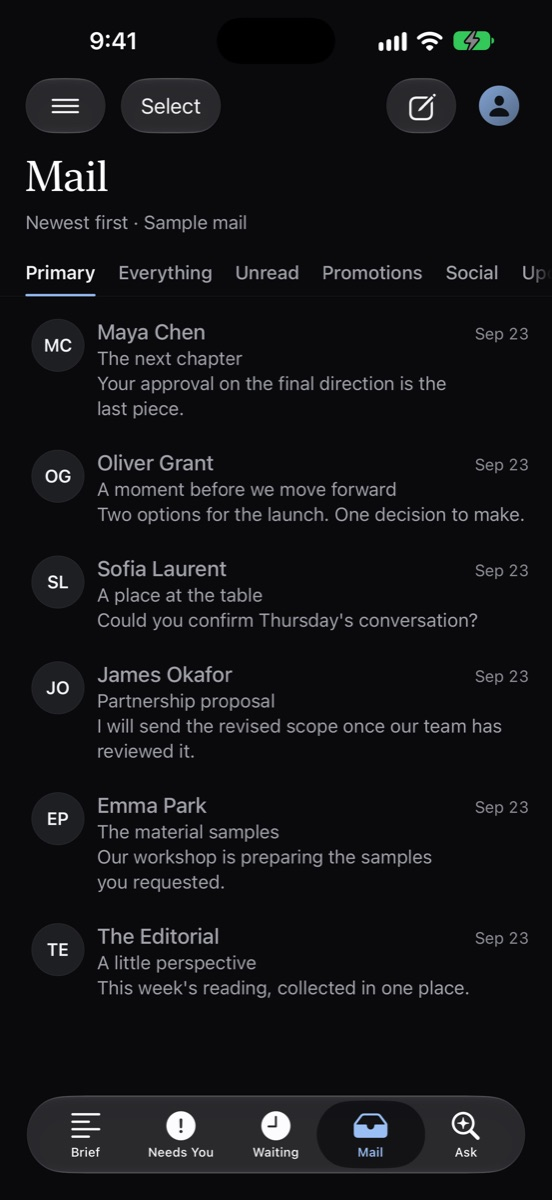
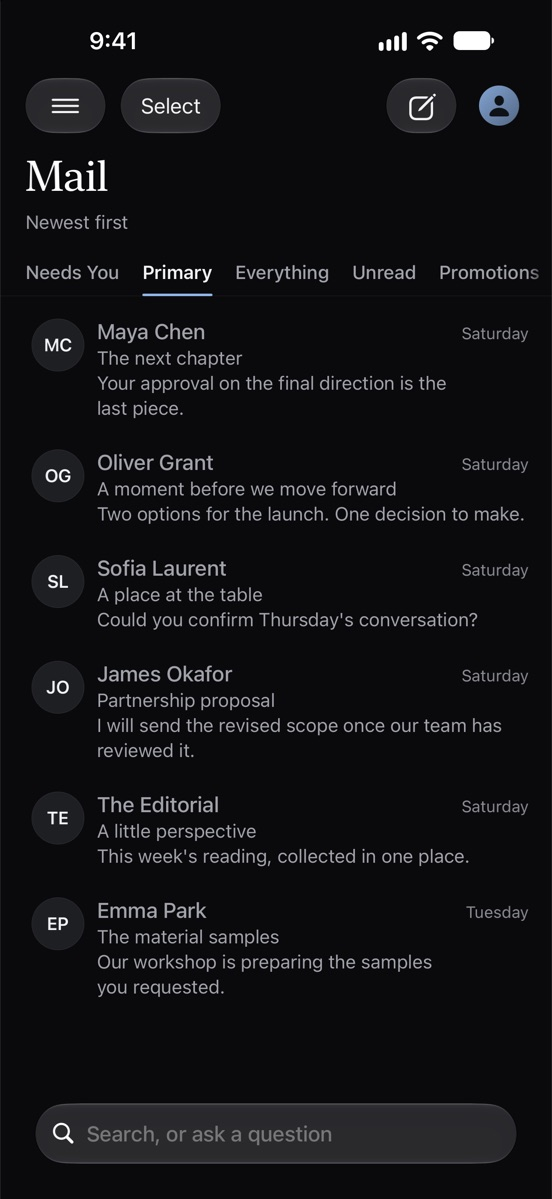
Corres: one home on Needs You, real iPhone screenshots
- New screenshots from the current build (Needs You and Primary), shown
  in a drawn iPhone with its titanium band, side buttons and Dynamic
  Island instead of a plain rounded box. The Brief screenshot is gone
  with the Brief screen.
- Copy follows Build 16: Corres opens on Needs You, questions are asked
  in Search, changes made offline wait and go through, and your choices
  sync between your devices through iCloud.
- Privacy policy covers iCloud sync and offline changes (effective
  October 19, 2026); terms and support list what Pro includes now.
- Now page: sixteen builds in.

diff --git a/public/corres/index.html b/public/corres/index.html
@@ -7,7 +7,7 @@
 <meta name="description" content="Corres is an email app for iPhone that reads and sorts your Gmail, Outlook and iCloud Mail on the device, brings forward what needs you, and never sends your mail to a server or an AI company.">
 <meta property="og:title" content="Corres · Email, considered.">
 <meta property="og:description" content="What needs you, first. Gmail, Outlook and iCloud in one calm inbox, read and sorted on your iPhone.">
-<meta property="og:image" content="https://anwarcreativestudio.com/corres/img/brief-dark.jpg">
+<meta property="og:image" content="https://anwarcreativestudio.com/corres/img/needs-you-dark.jpg">
 <meta name="theme-color" content="#0a0a0c" media="(prefers-color-scheme: dark)">
 <meta name="theme-color" content="#f6f3ec" media="(prefers-color-scheme: light)">
 <link rel="icon" href="../favicon.svg">
@@ -76,11 +76,31 @@
   .cta { display: flex; flex-wrap: wrap; gap: 12px; align-items: center; }
   .cta-note { margin-top: 16px; font-size: 13.5px; color: var(--ter); }
 
-  /* The phone: a real screen in a drawn frame. */
-  .phone { position: relative; width: min(340px, 78vw); aspect-ratio: 552 / 1200; margin-inline: auto; border-radius: 15.5% / 7.2%;
-           padding: 3.2%; background: linear-gradient(145deg, #3a3b40, #121214 46%, #2a2b2f); box-shadow:
-           0 0 0 1px rgba(255,255,255,.06), 0 60px 120px -40px rgba(0,0,0,.65), 0 30px 60px -30px var(--glow); }
-  .phone img { width: 100%; height: 100%; object-fit: cover; border-radius: 13% / 6%; }
+  /* The phone: a real screen in an iPhone 17 Pro Max, drawn to its
+     proportions: titanium band, black border, side buttons. */
+  .phone { position: relative; width: min(340px, 78vw); aspect-ratio: 78 / 163.4; margin-inline: auto;
+           border-radius: 17.5% / 8.4%; padding: 1.3%;
+           background:
+             linear-gradient(90deg, rgba(255,255,255,.28) 0, rgba(255,255,255,0) 1.6%, rgba(255,255,255,0) 98.4%, rgba(255,255,255,.22) 100%),
+             linear-gradient(180deg, rgba(255,255,255,.18) 0, rgba(255,255,255,0) 1.2%, rgba(255,255,255,0) 98.8%, rgba(255,255,255,.12) 100%),
+             linear-gradient(145deg, #5b5d63 0%, #2e3034 30%, #1d1e21 55%, #3b3d42 100%);
+           box-shadow: inset 0 0 0 1px rgba(0,0,0,.55), inset 0 0 0 2px rgba(255,255,255,.07),
+             0 0 0 .5px rgba(0,0,0,.6), 0 60px 120px -40px rgba(0,0,0,.7), 0 30px 60px -30px var(--glow); }
+  .phone .glass { position: relative; height: 100%; border-radius: 16% / 7.6%; padding: 2.4% 2.6%; background: #020203;
+                  box-shadow: inset 0 0 0 1px rgba(255,255,255,.04); overflow: hidden; }
+  .phone img { display: block; width: 100%; height: 100%; object-fit: cover; border-radius: 13.4% / 6.2%; }
+  /* The Dynamic Island: screenshots leave it out; the phone has it. */
+  .phone .glass::before { content: ""; position: absolute; z-index: 1; left: 50%; top: 3.3%; width: 27.5%; height: 3.5%;
+                          transform: translateX(-50%); border-radius: 999px; background: #000; }
+  /* A faint reflection across the glass. */
+  .phone .glass::after { content: ""; position: absolute; inset: 0; border-radius: inherit; pointer-events: none;
+                         background: linear-gradient(115deg, rgba(255,255,255,.07) 0%, rgba(255,255,255,0) 38%); }
+  /* Action button and volume on the left; side button and Camera Control on the right. */
+  .phone::before, .phone::after { content: ""; position: absolute; width: 1.1%; border-radius: 2px; }
+  .phone::before { left: -1%; top: 17%; height: 26%;
+    background: linear-gradient(180deg, #45474c 0 13%, transparent 13% 28%, #45474c 28% 57%, transparent 57% 64%, #45474c 64% 93%, transparent 93%); }
+  .phone::after { right: -1%; top: 26%; height: 42%;
+    background: linear-gradient(180deg, #45474c 0 26%, transparent 26% 74%, #2a2b2f 74% 92%, transparent 92%); }
   .hero .phone { transform: rotate(-2deg); }
   .float { position: absolute; z-index: 2; display: flex; align-items: center; gap: 10px; padding: 12px 16px; border-radius: 16px;
            background: color-mix(in srgb, var(--surface) 86%, transparent); border: 1px solid var(--line-2);
@@ -244,7 +264,7 @@
       <div>
         <p class="eyebrow">Email for iPhone · Gmail, Outlook and iCloud</p>
         <h1>Email,<br><em>considered.</em></h1>
-        <p class="lede">Open Corres and it has already read the morning for you: <strong>what needs you rises to the top</strong>, with the reason why, and everything else waits quietly until you&rsquo;re ready. All on your iPhone.</p>
+        <p class="lede">Corres opens on <strong>what needs you</strong>: every email that asks something of you, with the reason why. The rest of your mail is one swipe along, quiet until you&rsquo;re ready. All read and sorted on your iPhone.</p>
         <div class="cta">
           <a class="btn primary" href="mailto:support@corres.app?subject=Corres%20early%20access">Get early access</a>
           <a class="btn ghost" href="#privacy">How it stays private</a>
@@ -256,7 +276,7 @@
           <span class="ico"><svg width="16" height="16" viewBox="0 0 24 24" fill="none" stroke="currentColor" stroke-width="2" stroke-linecap="round"><circle cx="12" cy="12" r="9"/><path d="M12 7v6M12 16.5v.5"/></svg></span>
           <span><b>Needs you</b><small>Maya asked you to approve the direction</small></span>
         </div>
-        <div class="phone"><img src="img/brief-dark.jpg" width="552" height="1200" alt="The Corres Brief: three conversations need you, with who asked what, and the replies you're waiting on."></div>
+        <div class="phone"><div class="glass"><img src="img/needs-you-dark.jpg" width="552" height="1199" alt="Corres opening on Needs You: three conversations that need you, each with the reason, and the replies you're waiting on."></div></div>
         <div class="float f2" aria-hidden="true">
           <span class="ico"><svg width="16" height="16" viewBox="0 0 24 24" fill="none" stroke="currentColor" stroke-width="2" stroke-linecap="round" stroke-linejoin="round"><rect x="4" y="11" width="16" height="10" rx="2"/><path d="M8 11V7a4 4 0 0 1 8 0v4"/></svg></span>
           <span><b>Read on this iPhone</b><small>Never on a server</small></span>
@@ -284,9 +304,9 @@
 
       <div class="story reveal">
         <div class="copy">
-          <p class="eyebrow">Brief</p>
-          <h3>Your morning, in a paragraph.</h3>
-          <p>Who&rsquo;s waiting on you, what they asked, what&rsquo;s due, and who still owes you a reply. Written fresh each time you open Corres, from your own mail.</p>
+          <p class="eyebrow">Needs You</p>
+          <h3>Opens on what needs you.</h3>
+          <p>The emails that ask something of you come first, each with the reason it&rsquo;s there. Who still owes you a reply sits one row above. Everything else waits in Primary until you get to it.</p>
           <ul class="ticks">
             <li><svg viewBox="0 0 24 24"><path d="M20 6 9 17l-5-5"/></svg>Needs You: only mail that asks something of you, with the reason</li>
             <li><svg viewBox="0 0 24 24"><path d="M20 6 9 17l-5-5"/></svg>Waiting: replies you&rsquo;re owed, with a nudge when they&rsquo;re late</li>
@@ -310,17 +330,17 @@
           <ul class="ticks">
             <li><svg viewBox="0 0 24 24"><path d="M20 6 9 17l-5-5"/></svg>A security code or an appointment never hides in Updates</li>
             <li><svg viewBox="0 0 24 24"><path d="M20 6 9 17l-5-5"/></svg>Spam dressed up as a question stays out of the way</li>
-            <li><svg viewBox="0 0 24 24"><path d="M20 6 9 17l-5-5"/></svg>Swipes, tabs and the toolbar under an email are yours to set</li>
+            <li><svg viewBox="0 0 24 24"><path d="M20 6 9 17l-5-5"/></svg>Swipes, lists and the toolbar under an email are yours to set</li>
           </ul>
         </div>
-        <div class="phone" style="width:min(300px,72vw)"><img src="img/mail-dark.jpg" width="552" height="1200" loading="lazy" alt="The Corres Mail list, sorted into Primary, Promotions, Social and Updates."></div>
+        <div class="phone" style="width:min(300px,72vw)"><div class="glass"><img src="img/mail-dark.jpg" width="552" height="1200" loading="lazy" alt="The Corres Mail list, sorted into Primary, Promotions, Social and Updates."></div></div>
       </div>
 
       <div class="story reveal">
         <div class="copy">
           <p class="eyebrow">Notifications</p>
           <h3>The moment mail lands, and only when it should.</h3>
-          <p>New Outlook mail notifies in seconds, even with Corres closed, with who it&rsquo;s from and what it says. You choose, per account, whether that&rsquo;s everything, people and time-sensitive mail, or only what needs you.</p>
+          <p>New Outlook and iCloud mail notifies in seconds, even with Corres closed, with who it&rsquo;s from and what it says. You choose, per account, whether that&rsquo;s everything, people and time-sensitive mail, or only what needs you.</p>
           <ul class="ticks">
             <li><svg viewBox="0 0 24 24"><path d="M20 6 9 17l-5-5"/></svg>Archive, mark read or reply right from the notification</li>
             <li><svg viewBox="0 0 24 24"><path d="M20 6 9 17l-5-5"/></svg>Newsletters arrive silently; VIPs always come through</li>
@@ -368,11 +388,11 @@
         <h2>Complete, down to the details.</h2>
       </div>
       <div class="grid reveal">
-        <div class="cell wide"><svg viewBox="0 0 24 24"><path d="M13 2 4 14h7l-1 8 9-12h-7z"/></svg><h4>Built on Postwright</h4><p>Corres runs on its own mail engine. Archive and delete happen the moment you swipe, and what you do on the web or another device shows up here.</p></div>
+        <div class="cell wide"><svg viewBox="0 0 24 24"><path d="M13 2 4 14h7l-1 8 9-12h-7z"/></svg><h4>Built on Postwright</h4><p>Corres runs on its own mail engine. Archive and delete happen the moment you swipe, even with no signal, and go through when you&rsquo;re back online. What you do on the web or another device shows up here.</p></div>
         <div class="cell"><svg viewBox="0 0 24 24"><path d="M12 20h9"/><path d="M16.5 3.5a2.1 2.1 0 0 1 3 3L7 19l-4 1 1-4z"/></svg><h4>Writing, finished</h4><p>Drafts that wait for you, bold, lists and links, sending from your other addresses, and a check for a forgotten attachment.</p></div>
         <div class="cell"><svg viewBox="0 0 24 24"><circle cx="12" cy="12" r="9"/><path d="M12 7v5l3 2"/></svg><h4>Send Later &amp; follow-ups</h4><p>Schedule an email, and get a reminder if nobody replies. Undo Send for when you change your mind.</p></div>
         <div class="cell"><svg viewBox="0 0 24 24"><path d="M21 12a9 9 0 1 1-3.2-6.9"/><path d="M21 4v5h-5"/></svg><h4>Summaries &amp; replies</h4><p>Long threads summarized and checked against the email itself, and replies drafted in your voice, by Apple Intelligence on the iPhone.</p></div>
-        <div class="cell"><svg viewBox="0 0 24 24"><circle cx="11" cy="11" r="7"/><path d="m20 20-3.5-3.5"/></svg><h4>Ask your mail</h4><p>&ldquo;When is my flight?&rdquo; Answered from your own email, with the messages it came from.</p></div>
+        <div class="cell"><svg viewBox="0 0 24 24"><circle cx="11" cy="11" r="7"/><path d="m20 20-3.5-3.5"/></svg><h4>Search that answers</h4><p>Search every account at once, with filters like from: and has:attachment. Or ask, &ldquo;When is my flight?&rdquo;, and get the answer from your own email, with the messages it came from.</p></div>
         <div class="cell"><svg viewBox="0 0 24 24"><rect x="3" y="4" width="18" height="17" rx="2"/><path d="M3 9h18M8 2v4M16 2v4"/></svg><h4>Invitations &amp; Out of Office</h4><p>Accept, Maybe or Decline right in the email, and turn your automatic reply on from your phone.</p></div>
         <div class="cell"><svg viewBox="0 0 24 24"><path d="M4 12v7a1 1 0 0 0 1 1h14a1 1 0 0 0 1-1v-7"/><path d="M12 15V3M7 8l5-5 5 5"/></svg><h4>Share to Corres</h4><p>Share a page or photos from any app and write the email right in the Share sheet.</p></div>
         <div class="cell"><svg viewBox="0 0 24 24"><path d="M3 6h18M3 12h18M3 18h12"/></svg><h4>Unsubscribe in a tap</h4><p>Leave a mailing list the way the sender intended, without visiting their site.</p></div>
@@ -388,7 +408,7 @@
       <p class="promise reveal">Your email is read on your iPhone. <em>Not on our servers, and never by an AI company.</em></p>
       <div class="three reveal">
         <div><h4>Stored on your device</h4><p>Mail comes straight from Google, Microsoft or Apple to your iPhone and stays there, protected by iOS. Corres&rsquo;s servers never receive it.</p></div>
-        <div><h4>Sorted on your device</h4><p>Needs You, summaries, suggested replies and Ask all run on the iPhone. Nothing is sent to an AI service or used to train one.</p></div>
+        <div><h4>Sorted on your device</h4><p>Needs You, summaries, suggested replies and answers in Search all run on the iPhone. Nothing is sent to an AI service or used to train one.</p></div>
         <div><h4>Nothing to sell</h4><p>No ads, no analytics, no tracking SDKs, no read receipts. Corres is paid for by the people who use it.</p></div>
       </div>
       <p class="fine reveal">Read the full <a href="privacy/">privacy policy</a>. Corres&rsquo;s use and transfer of information received from Google APIs adheres to the <a href="https://developers.google.com/terms/api-services-user-data-policy">Google API Services User Data Policy</a>, including the Limited Use requirements.</p>
@@ -418,8 +438,8 @@
           <div class="price">$20 <small>a month · or $200 a year</small></div>
           <p class="sub">Try it free first</p>
           <ul class="ticks">
-            <li><svg viewBox="0 0 24 24"><path d="M20 6 9 17l-5-5"/></svg>Brief, Needs You and Waiting</li>
-            <li><svg viewBox="0 0 24 24"><path d="M20 6 9 17l-5-5"/></svg>Summaries, replies in your voice, and Ask</li>
+            <li><svg viewBox="0 0 24 24"><path d="M20 6 9 17l-5-5"/></svg>Needs You and Waiting, with the reason for each</li>
+            <li><svg viewBox="0 0 24 24"><path d="M20 6 9 17l-5-5"/></svg>Summaries, replies in your voice, and answers from your mail</li>
             <li><svg viewBox="0 0 24 24"><path d="M20 6 9 17l-5-5"/></svg>Everything in Corres, free</li>
           </ul>
         </div>
@@ -434,8 +454,10 @@
         <details><summary>Which email accounts work with Corres?</summary><p>Gmail and Google Workspace, Outlook.com, Hotmail and Live, work or school Microsoft 365, and iCloud Mail. Add as many as you like; they share one inbox. iCloud asks for an app-specific password instead of your Apple Account password, and Corres walks you through making one in about a minute.</p></details>
         <details><summary>What is Postwright?</summary><p>Postwright is the mail engine we built for Corres. It talks to Gmail, Outlook and iCloud Mail each in its own way, on your iPhone, so your actions are instant, Undo always works, and every account stays in step with the web. It&rsquo;s why Corres doesn&rsquo;t need a server of its own to hold your mail.</p></details>
         <details><summary>Does Corres read my email on its servers?</summary><p>No. Your mail is downloaded from Google, Microsoft or Apple directly to your iPhone and processed there. An optional notification relay only learns that your mailbox changed, never what&rsquo;s in it. The <a href="privacy/" style="color:var(--accent)">privacy policy</a> has the details.</p></details>
-        <details><summary>Do I need Apple Intelligence?</summary><p>No. Sorting, Needs You, Waiting and the Brief work on every supported iPhone. Summaries and drafted replies use Apple Intelligence where your iPhone has it.</p></details>
+        <details><summary>Do I need Apple Intelligence?</summary><p>No. Sorting, Needs You and Waiting work on every supported iPhone. Summaries and drafted replies use Apple Intelligence where your iPhone has it.</p></details>
         <details><summary>Is there an iPad version?</summary><p>Yes, Corres runs on iPhone and iPad, with a three-column layout on iPad.</p></details>
+        <details><summary>Does it work without a signal?</summary><p>Yes. Your mail is on your iPhone, so it reads offline, and anything you archive, delete, flag or mark read goes through as soon as you&rsquo;re back online.</p></details>
+        <details><summary>Is there a Mac app?</summary><p>It&rsquo;s in the works: a native Mac app, built for the Mac rather than carried over from iPhone, on the same engine and with what you&rsquo;ve set in Corres following you there through iCloud.</p></details>
         <details><summary>How do I get it?</summary><p>Corres is in beta on TestFlight. <a href="mailto:support@corres.app?subject=Corres%20early%20access" style="color:var(--accent)">Ask for early access</a>, and it&rsquo;s coming to the App Store.</p></details>
       </div>
     </div>

diff --git a/public/corres/privacy/index.html b/public/corres/privacy/index.html
@@ -32,7 +32,7 @@
   <p class="eyebrow">Corres · Privacy Policy</p>
   <h1>Your mail stays yours.</h1>
   <p class="lede">Corres reads and sorts your email on your iPhone. It doesn't sell your data, show ads, or send your mail to an AI company.</p>
-  <p>Effective October 18, 2026. Corres is made by Anwar Creative Studio (“we”).</p>
+  <p>Effective October 19, 2026. Corres is made by Anwar Creative Studio (“we”).</p>
 
   <h2>What Corres accesses</h2>
   <p>When you connect a Gmail account, you sign in with Google directly; Corres never sees your password. Google gives Corres permission to read, send and organize (archive, label, mark read, move to Trash) your Gmail, which is what an email app needs to work. If you open Out of Office in Settings, Corres asks Google for one more permission, to change your Gmail settings, so it can turn your vacation reply on and off; it's asked for only then, never at sign-in. You can revoke any of this anytime in your Google Account settings or by removing the account in Corres.</p>
@@ -42,12 +42,14 @@
 
   <h2>Where your mail is processed</h2>
   <ul>
-    <li><strong>On your device.</strong> Your messages are downloaded from Google, Microsoft or Apple to your iPhone or iPad and stored there, protected by iOS. Sorting, summaries, suggested replies, rewrites, dictation and Ask your mail all run on your device using Apple Intelligence and Apple's on-device speech recognition.</li>
+    <li><strong>On your device.</strong> Your messages are downloaded from Google, Microsoft or Apple to your iPhone or iPad and stored there, protected by iOS. Sorting, summaries, suggested replies, rewrites, dictation and answers to questions in Search all run on your device using Apple Intelligence and Apple's on-device speech recognition.</li>
     <li><strong>Never on our servers, never with AI companies.</strong> The contents of your email are not sent to Anwar Creative Studio or to any AI provider.</li>
     <li><strong>Your sign-in permission</strong> (or, for iCloud, your app-specific password) is kept in your device's Keychain, shared only with Corres's own Share extension so you can write an email from the Share sheet.</li>
     <li><strong>New-mail notifications are written on your device.</strong> When a notification arrives, Corres's notification extension fetches that one email from Google or Microsoft with your own sign-in and shows its sender, subject and opening words. Nothing about the email passes through our servers.</li>
     <li><strong>Your account settings</strong> (each account's name, color, signatures and notification choices) are kept on your device.</li>
     <li><strong>What Corres learns from you</strong> (where you move a sender's mail, what you mark as needing no action, your habits) is kept on your device, and you can see and forget any of it in Settings.</li>
+    <li><strong>Your Corres choices on your other devices.</strong> So your iPhone, iPad and Mac agree, Corres keeps a small record of what you decide in it in your own private iCloud storage, which Apple holds for your Apple Account: conversations you moved, snoozed or pinned (by their identifiers, not their contents), senders you allowed or blocked, your VIPs, what Corres has learned, your signatures and your settings. No email content is stored there, and we can't read it. Signing out of iCloud on a device stops it.</li>
+    <li><strong>Changes made without a signal</strong> (archive, delete, flag, mark read) wait on your device and are sent to Google, Microsoft or Apple once you're back online.</li>
     <li><strong>Send Later</strong> keeps the email on your iPhone and sends it from there at the time you chose. It never waits on our servers.</li>
   </ul>
 

diff --git a/src/content/corres.ts b/src/content/corres.ts
@@ -1,6 +1,6 @@
 export const corres = {
   tagline: 'Email, considered.',
   status: 'In beta on TestFlight',
-  description: "Open Corres and it sorts itself: what needs you rises to the top, everything else steps back until you're ready.",
-  progress: "In beta with its first testers, for Gmail, Outlook and iCloud alike: Outlook.com, Hotmail, work Microsoft 365 and iCloud Mail accounts sit in one inbox beside Gmail, each with its own name, color, signatures and notifications, and new Outlook mail notifies the moment it lands. Adding iCloud takes about a minute, with Apple's sign-in page and a one-tap paste right inside Corres. Corres sorts your mail into a short daily Brief, Needs You for what's waiting on your reply, and Waiting for replies you're owed, and keeps a Primary inbox that's actually primary: people and what's urgent up top, with Promotions, Social and Updates beside it, placed more carefully than Gmail's own tabs. Move one email, one kind of a sender's mail, or everything from them, and it learns. Writing is complete: drafts that wait for you, Send Later, reminders if nobody replies, Bcc done properly, bold, lists and links, sending from your other addresses, a check for a forgotten attachment, and a reply straight from a notification. Answer calendar invitations, set Out of Office, or share a page or photos from any app and write the email right in the Share sheet. Apple Intelligence runs entirely on the iPhone: summaries checked against the email, replies in your voice, and Ask, which answers from your own mail with its sources. Every email reads the way it was meant to, in light and dark, with attachments you can tell apart at a glance. Underneath is Postwright, the mail engine we built for Corres: actions happen the moment you make them, and every account stays in step with the web. It's yours to shape, from the tabs to every swipe, in a quiet Obsidian and Ivory design with New York serif type.",
+  description: "Corres opens on what needs you: every email that asks something of you, with the reason why. The rest waits quietly until you're ready.",
+  progress: "In beta with its first testers, for Gmail, Outlook and iCloud alike, all in one inbox. Corres opens on Needs You: the emails that ask something of you, each with the reason it's there, with the replies you're still owed one row above and the rest of your mail in Primary, Promotions, Social and Updates, one swipe along. Search looks through every account with filters like from: and has:attachment, and answers a question such as \"when is my flight?\" from your own mail. Archive, delete and mark read work with no signal and go through once you're back online, and what you decide in Corres follows you to your other devices through iCloud. New Outlook and iCloud mail notifies in seconds, even with Corres closed. Writing is complete: drafts that wait for you, Send Later, reminders if nobody replies, bold, lists and links, sending from your other addresses, and a reply straight from a notification. Apple Intelligence runs entirely on the iPhone, and every summary and reason is checked against the email itself before you see it. Underneath is Postwright, the mail engine we built for Corres, and a native Mac app is on the way.",
 }

diff --git a/public/corres/support/index.html b/public/corres/support/index.html
@@ -54,7 +54,7 @@
   <details><summary>What is the Screener?</summary><p>First emails from new senders can wait for your yes or no. Turn it on in Settings → Sorting → Screen New Senders, and review them in Review New Senders. Blocking only hides them in Corres; it never changes your email account.</p></details>
 
   <h2>Corres Pro</h2>
-  <details><summary>What's free and what's in Pro?</summary><p>Mail is free: read, write, search and organize every account. Pro adds the Brief, Needs You, Waiting, Ask, summaries and suggested replies.</p></details>
+  <details><summary>What's free and what's in Pro?</summary><p>Mail is free: read, write, search and organize every account. Pro adds Needs You, Waiting, answers in Search, summaries and suggested replies.</p></details>
   <details><summary>How do I cancel or change my subscription?</summary><p>On your iPhone, open Settings → your name → Subscriptions → Corres. Cancel at least 24 hours before the period ends to avoid renewing. Apple handles billing and refunds: <a href="https://reportaproblem.apple.com">reportaproblem.apple.com</a>.</p></details>
   <details><summary>I bought Pro but it isn't unlocked</summary><p>Open Settings in Corres and tap Restore Purchases, signed in with the same Apple Account you bought it with.</p></details>
 

diff --git a/public/corres/terms/index.html b/public/corres/terms/index.html
@@ -46,7 +46,7 @@
 
   <h2>Corres Pro</h2>
   <ul>
-    <li>Corres is free to use. Corres Pro adds features such as the Brief, Needs You, Waiting, Ask and on-device summaries and replies.</li>
+    <li>Corres is free to use. Corres Pro adds features such as Needs You, Waiting, answers in Search, and on-device summaries and replies.</li>
     <li>Pro is sold through the App Store as a subscription (monthly or yearly), and may include a free trial. Apple handles payment, renewal and refunds.</li>
     <li>Subscriptions renew automatically unless you cancel at least 24 hours before the end of the current period. Manage or cancel anytime in your iPhone's Settings → your name → Subscriptions.</li>
     <li>Prices are shown in the App Store before you buy, and may change; a change applies from your next renewal after you're told.</li>

diff --git a/src/pages/NowPage.tsx b/src/pages/NowPage.tsx
@@ -16,7 +16,7 @@ export function NowPage() {
           alongside Artha. Email, considered.
         </p>
         <p>
-          The beta is on TestFlight with early testers, eleven builds in, and it&rsquo;s my own daily
+          The beta is on TestFlight with early testers, sixteen builds in, and it&rsquo;s my own daily
           driver, for Gmail, Outlook and now iCloud Mail, in one inbox. It sorts what needs you and keeps a Primary inbox that learns from every correction,
           with Promotions, Social and Updates kept apart. Writing is now complete, from drafts and Send
           Later to follow-up reminders and sharing straight into an email from any app, and Apple
